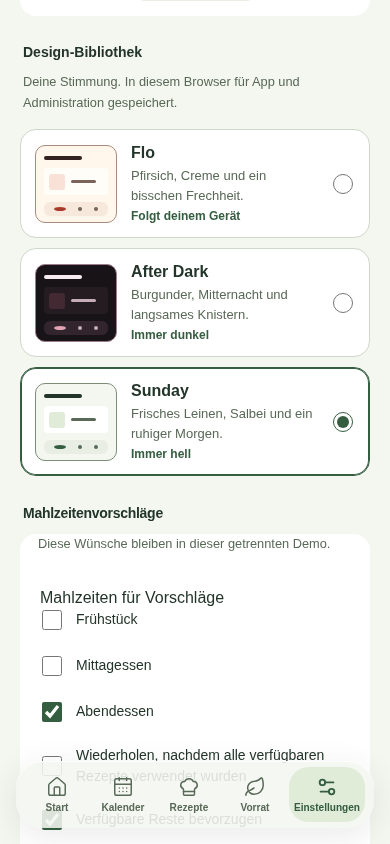
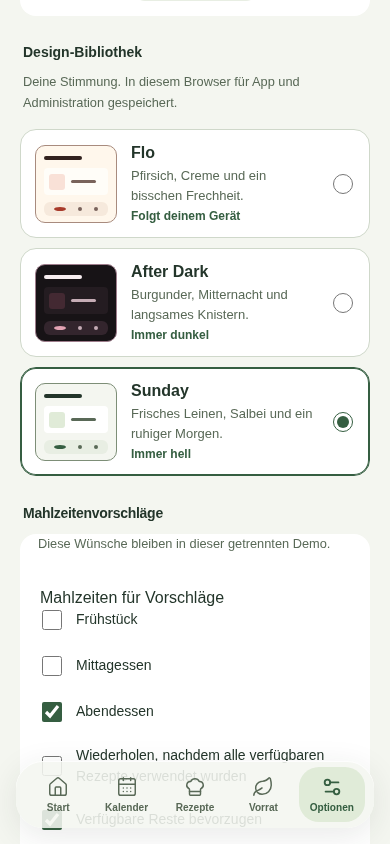
docs: Record verified theme preview and 5152 upgrade [skip ci]

diff --git a/docs/IMPLEMENTATION.md b/docs/IMPLEMENTATION.md
@@ -1,14 +1,17 @@
 # Implementation checklist and evidence
 
-**Theme library, 2026-10-21 — implemented; publication pending:** Settings offers Flo
+**Theme library, 2026-10-21 — published and verified in `poc-20261021.9`:** Settings offers Flo
 (existing system light/dark), After Dark (fixed dark romance palette) and Sunday
 (fixed light sage/linen). A shared early controller and semantic CSS cover PWA and
 console, native fields and browser metadata. Browser-local choice persists offline
 and propagates across tabs; storage failures are disclosed. Original PNGs, API and
 local/server database identities are unchanged. Real Chromium checks cover native radio
 keys, opposite OS modes, early boot, offline reload, admin sharing, denied storage,
-contrast and Axe. WebKit CI, publication verification and physical iPhone evidence are
-separate gates. See [theme guide](THEMES.md).
+contrast and Axe. All six exact-source CI jobs pass, including persistent WebKit with
+real backend-outage cached reloads and narrow German controls. Both fresh image gates,
+six public checksums, config identities, anonymous pull and published .8-to-.9 same-volume
+5152 upgrade pass. Physical iPhone remains unverified. See [theme guide](THEMES.md) and
+[release evidence](validation/github-themes-preview.json).
 
 **Mobile calendar and form alignment, 2026-10-21 — published and verified in `poc-20261021.8`:**
 Day/3 days/Week selection persists per device. Multi-day columns remain readable and

diff --git a/docs/RELEASE.md b/docs/RELEASE.md
@@ -140,3 +140,17 @@ Public pull, six asset checksums, build/config/report identities and the publish
 ships; household/session/recipe/sync proof and original assets persist. Duplicate tag
 event 39646224899 succeeded at the release gate and skipped verify-images/publish.
 Physical iPhone gestures/keyboard remain unverified. See [exact evidence](validation/github-mobile-calendar-preview.json).
+
+Theme-library update: `poc-20261021.9` from a9659effcd6bb85b77b37e1a81022fc9bd4c4823
+passed all six source jobs in 39652782031, including complete Chromium/WebKit theme,
+offline, native-control, contrast/Axe and narrow German layout checks. Publication
+39653391814 passed both fresh native scans/runtime gates and published digest
+`sha256:9cc1e8f386c4c47792727b52a0408564c0e1dc486514270167e57eb777ac10e8`.
+Public pull, all six release checksums, native build/scan/published config identities and
+a disposable published .8-to-.9 same-volume upgrade on internal 5152 pass. Both SBOMs
+identify Trivy 0.70.0, with zero HIGH/CRITICAL findings in both reports. Provenance,
+job IDs, intermediate browser findings and platform limits are recorded in
+validation/github-themes-preview.json and validation/mealf-themes-local.json.
+Physical iPhone and full-product acceptance remain open. Keep existing volume and custom
+port/command/healthcheck settings; update only the image and accept the PWA update after
+saving edits. No browser reset or reinstall is required.

diff --git a/CHANGELOG.md b/CHANGELOG.md
@@ -6,7 +6,10 @@
   cross-tab administration and offline reloads in sync. Preserve original brand assets
   and household/storage/API identities. EN/DE native-radio controls include previews.
   Browser contrast/Axe, storage-failure, offline and OS-override checks are included.
-  Preview `.9` publication pending; physical iPhone remains unverified.
+  Published `.9`: all six source CI jobs (including Chromium/WebKit), both fresh image
+  gates, public pull/checksums/config identities and .8-to-.9 same-volume 5152 upgrade
+  pass. Narrow German navigation/demo bounds and destructive contrast are corrected;
+  physical iPhone remains unverified.
 
 - Add per-device Day/3 days/Week calendar views and touch/pointer meal drag grips with
   target feedback, edge scrolling, cancellation and tap/keyboard move forms. Preserve

diff --git a/README.md b/README.md
@@ -7,7 +7,8 @@ remain compatible; see [branding and migration](docs/BRANDING.md).
 installable browser application. Home, Calendar, Recipes, Pantry, Settings, offline editing,
 reviewed imports and two-device synchronisation have real Chromium acceptance coverage.
 The native iOS repository is preserved for later. Read [install/use/develop the PWA](docs/PWA.md)
-and [implemented/remaining scope](docs/PWA_IMPLEMENTATION.md).
+and [implemented/remaining scope](docs/PWA_IMPLEMENTATION.md). Choose Flo, After Dark or
+Sunday in Settings; see [themes and offline appearance](docs/THEMES.md).
 
 Self-hosted household meal planning with a primary PWA and a retained native companion.
 Apache-2.0. One process, one Docker container, SQLite and a persistent `/data` volume.
